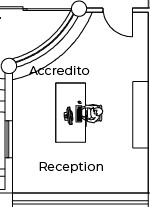
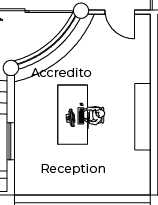
committo tuttecose

Changed region(s): [[0.0, 0.0, 1.0, 1.0], [0.24, 0.761, 0.6933, 0.8488], [0.0, 0.0878, 0.0267, 0.1171]]

diff --git a/WareHouseAngular/src/app/WorkStation/office/ground-floor/uff2/uff2.component.html b/WareHouseAngular/src/app/WorkStation/office/ground-floor/uff2/uff2.component.html
@@ -1,41 +1,40 @@
 <h2>Image Maps</h2>
 <p>Click on the cup of coffee to go to a new page and read more about the topic:</p>
 
-<img src="../../../../../assets/img/Ufficio_tecnico_2_PT.jpg" alt="Workplace" usemap="#workmap" >
+<img src="../../../../../assets/img/Ufficio_tecnico_2_PT.png" alt="Workplace" usemap="#workmap" >
 
 <map name="workmap">
 
-  tavolo top
-  <area alt="1" title="1" href="/Workstation" coords="145,228 146,199 166,198 166,182 181,182 182,199 197,198 197,229 " shape="polygon" (click)="setWorkstationInSession('uff_2_gf', 13)">
-  <area alt="2" title="2" href="/Workstation" coords="197,229 198,200 217,201 217,183 234,184 235,201 249,201 248,230 " shape="polygon" (click)="setWorkstationInSession('uff_2_gf', 13)">
-  <area alt="3" title="3" href="/Workstation" coords="249,228 249,200 268,201 269,183 285,184 286,201 300,201 300,230 " shape="polygon" (click)="setWorkstationInSession('uff_2_gf', 13)">
-  <area alt="4" title="4" href="/Workstation" coords="300,228 301,199 320,200 321,182 337,183 338,200 352,200 352,229 " shape="polygon" (click)="setWorkstationInSession('uff_2_gf', 13)">
-  <area alt="5" title="5" href="/Workstation" coords="353,229 353,199 373,200 373,182 390,183 391,200 405,200 404,229 " shape="polygon" (click)="setWorkstationInSession('uff_2_gf', 13)">
-  <area alt="6" title="6" href="/Workstation" coords="145,229 197,230 197,260 183,260 181,276 167,276 166,260 147,260 " shape="polygon" (click)="setWorkstationInSession('uff_2_gf', 13)">
-  <area alt="7" title="7" href="/Workstation" coords="198,229 248,230 248,260 234,260 232,276 218,276 217,260 198,260 " shape="polygon" (click)="setWorkstationInSession('uff_2_gf', 13)">
-  <area alt="8" title="8" href="/Workstation" coords="250,228 300,229 300,259 285,259 284,275 270,275 268,259 250,259 " shape="polygon" (click)="setWorkstationInSession('uff_2_gf', 13)">
-  <area alt="9" title="9" href="/Workstation" coords="301,229 351,229 351,259 337,259 335,276 321,276 320,259 301,259 " shape="polygon" (click)="setWorkstationInSession('uff_2_gf', 13)">
-  <area alt="10" title="10" href="/Workstation" coords="353,229 403,230 403,260 388,260 387,276 373,276 371,260 353,260 " shape="polygon" (click)="setWorkstationInSession('uff_2_gf', 13)">
 
-tavolo centrale da 4
-  <area alt="11" title="11" href="/Workstation" coords="200,321 228,322 229,372 200,372 200,358 183,358 183,341 199,341 " shape="polygon" (click)="setWorkstationInSession('uff_2_gf', 13)">
-  <area alt="12" title="12" href="/Workstation" coords="229,321 258,321 259,341 275,342 275,357 259,357 259,372 229,373 " shape="polygon" (click)="setWorkstationInSession('uff_2_gf', 13)">
-  <area alt="13" title="13" href="/Workstation" coords="200,373 228,373 229,424 200,424 200,410 183,410 183,393 199,393 " shape="polygon" (click)="setWorkstationInSession('uff_2_gf', 13)">
-  <area alt="14" title="14" href="/Workstation" coords="230,374 258,374 259,394 275,395 276,410 259,410 260,424 230,426 " shape="polygon" (click)="setWorkstationInSession('uff_2_gf', 13)">
+  <area alt="1" title="1" href="/Workstation" coords="63,77 83,77 83,61 100,60 101,77 114,76 114,107 64,106 " shape="polygon" (click)="setWorkstationInSession('uff_2_gf', 1)">
+  <area alt="2" title="2" href="/Workstation" coords="166,106 166,77 153,76 151,61 136,61 135,76 115,76 115,106 " shape="polygon" (click)="setWorkstationInSession('uff_2_gf', 2)">
+  <area alt="3" title="3" href="/Workstation" coords="218,106 218,78 204,77 203,62 188,61 187,76 167,77 167,107 " shape="polygon" (click)="setWorkstationInSession('uff_2_gf', 3)">
+  <area alt="4" title="4" href="/Workstation" coords="270,106 270,77 256,76 255,61 240,61 238,76 219,76 219,106 " shape="polygon" (click)="setWorkstationInSession('uff_2_gf', 4)">
+  <area alt="5" title="5" href="/Workstation" coords="321,106 321,77 307,76 306,61 291,61 289,76 270,76 270,106 " shape="polygon" (click)="setWorkstationInSession('uff_2_gf', 5)">
+  <area alt="6" title="6" href="/Workstation" coords="63,106 114,107 115,136 99,136 99,153 85,153 84,136 63,136 " shape="polygon" (click)="setWorkstationInSession('uff_2_gf', 6)">
+  <area alt="7" title="7" href="/Workstation" coords="115,105 166,106 167,135 151,135 150,152 137,152 136,135 115,135 " shape="polygon" (click)="setWorkstationInSession('uff_2_gf', 7)">
+  <area alt="8" title="8" href="/Workstation" coords="167,106 218,106 219,135 203,135 202,153 189,153 188,135 167,135 " shape="polygon" (click)="setWorkstationInSession('uff_2_gf', 8)">  
+  <area alt="9" title="9" href="/Workstation" coords="218,106 269,107 270,136 254,136 253,153 240,153 239,136 218,136 " shape="polygon" (click)="setWorkstationInSession('uff_2_gf', 9)">
+  <area alt="10" title="10" href="/Workstation" coords="270,106 321,106 321,135 306,135 305,153 291,153 291,135 270,135 " shape="polygon" (click)="setWorkstationInSession('uff_2_gf', 10)">
 
-tavolo bottom
-  <area alt="15" title="15" href="/Workstation" coords="146,519 146,489 165,490 166,472 182,473 183,490 197,490 197,519 " shape="polygon" (click)="setWorkstationInSession('uff_2_gf', 13)">
-  <area alt="2" title="16" href="/Workstation" coords="197,518 197,488 216,489 217,471 233,472 234,489 248,489 247,518 " shape="polygon" (click)="setWorkstationInSession('uff_2_gf', 13)">
-  <area alt="2" title="17" href="/Workstation" coords="249,518 249,488 268,488 269,471 285,471 286,488 300,488 300,517 " shape="polygon" (click)="setWorkstationInSession('uff_2_gf', 13)">
-  <area alt="2" title="18" href="/Workstation" coords="301,519 301,489 320,490 321,472 337,473 338,490 352,490 352,519 " shape="polygon" (click)="setWorkstationInSession('uff_2_gf', 13)">
-  <area alt="2" title="19" href="/Workstation" coords="353,519 352,489 371,490 372,472 388,473 389,490 403,490 403,519 " shape="polygon" (click)="setWorkstationInSession('uff_2_gf', 13)">
-  <area alt="3" title="20" href="/Workstation" coords="146,518 196,519 196,549 182,549 181,565 167,565 165,549 146,549 " shape="polygon" (click)="setWorkstationInSession('uff_2_gf', 13)">
-  <area alt="3" title="21" href="/Workstation" coords="198,518 248,518 248,548 234,548 232,565 218,565 217,548 198,548 " shape="polygon" (click)="setWorkstationInSession('uff_2_gf', 13)">
-  <area alt="3" title="22" href="/Workstation" coords="250,519 300,520 300,549 285,549 284,566 270,566 268,549 250,549 " shape="polygon" (click)="setWorkstationInSession('uff_2_gf', 13)">
-  <area alt="3" title="23" href="/Workstation" coords="301,519 351,520 351,549 337,549 335,566 321,566 320,549 301,549 " shape="polygon" (click)="setWorkstationInSession('uff_2_gf', 13)">
-  <area alt="3" title="24" href="/Workstation" coords="353,518 403,519 403,549 389,549 388,565 374,565 372,549 353,549 " shape="polygon" (click)="setWorkstationInSession('uff_2_gf', 13)">
+  <area alt="11" title="11" href="/Workstation" coords="118,197 147,197 147,251 117,250 117,235 103,235 102,220 117,219 " shape="polygon" (click)="setWorkstationInSession('uff_2_gf', 11)">
+  <area alt="12" title="12" href="/Workstation" coords="147,198 176,198 177,218 193,219 193,234 177,234 177,250 146,249 " shape="polygon" (click)="setWorkstationInSession('uff_2_gf', 12)">
+  <area alt="13" title="13" href="/Workstation" coords="117,249 146,249 147,302 117,301 116,287 103,287 102,271 117,270 " shape="polygon" (click)="setWorkstationInSession('uff_2_gf', 13)">
+  <area alt="14" title="14" href="/Workstation" coords="148,250 176,250 177,270 194,271 194,288 177,288 177,301 148,301 " shape="polygon" (click)="setWorkstationInSession('uff_2_gf', 14)">
 
-direzione
-<area alt="" title="1" href="/Workstation" coords="503,519 569,519 570,549 546,548 545,566 531,566 529,548 502,550 " shape="polygon" (click)="setWorkstationInSession('dir_uff_2_gf', 1)">
+  <area alt="15" title="15" href="/Workstation" coords="63,367 83,366 84,351 100,350 100,366 115,367 115,396 63,396 " shape="polygon" (click)="setWorkstationInSession('uff_2_gf', 15)">
+  <area alt="" title="16" href="/Workstation" coords="116,366 136,366 137,350 152,350 153,366 167,366 168,396 115,395 " shape="polygon" (click)="setWorkstationInSession('uff_2_gf', 16)">
+  <area alt="" title="17" href="/Workstation" coords="168,366 187,366 188,350 204,350 205,366 219,366 219,396 167,395 " shape="polygon" (click)="setWorkstationInSession('uff_2_gf', 17)">
+  <area alt="" title="18" href="/Workstation" coords="219,366 238,366 239,350 255,350 255,366 270,366 270,396 218,395 " shape="polygon" (click)="setWorkstationInSession('uff_2_gf', 18)">
+  <area alt="" title="19" href="/Workstation" coords="270,366 290,366 291,350 307,350 307,366 322,366 322,396 270,395 " shape="polygon" (click)="setWorkstationInSession('uff_2_gf', 19)">
+  <area alt="" title="20" href="/Workstation" coords="64,396 115,395 115,426 100,426 100,442 85,442 84,426 64,425 " shape="polygon" (click)="setWorkstationInSession('uff_2_gf', 20)">
+  <area alt="" title="21" href="/Workstation" coords="114,395 166,395 166,426 151,426 151,442 136,442 136,426 115,425 " shape="polygon" (click)="setWorkstationInSession('uff_2_gf', 21)">
+  <area alt="" title="22" href="/Workstation" coords="167,396 218,395 218,426 204,426 203,442 188,442 188,426 168,425 " shape="polygon" (click)="setWorkstationInSession('uff_2_gf', 22)">
+  <area alt="" title="23" href="/Workstation" coords="219,396 270,395 270,426 255,426 255,442 240,442 240,426 219,425 " shape="polygon" (click)="setWorkstationInSession('uff_2_gf', 23)">
+  <area alt="" title="24" href="/Workstation" coords="270,396 321,396 321,427 307,427 306,442 291,443 291,427 271,426 " shape="polygon" (click)="setWorkstationInSession('uff_2_gf', 24)">
+
+  <area alt="" title="25" href="Workstation" coords="420,395 486,395 486,425 463,425 463,440 448,439 446,426 420,424 " shape="polygon" (click)="setWorkstationInSession('dir_uff_2_gf', 1)">
+
+  -----------
 
 </map>

diff --git a/WareHouseAngular/src/app/WorkStation/office/ground-floor/reception/reception.component.html b/WareHouseAngular/src/app/WorkStation/office/ground-floor/reception/reception.component.html
@@ -4,5 +4,5 @@
 
 <img src="../../../../../assets/img/Reception.png" usemap="#image_map">
 <map name="image_map">
-  <area alt="" title="1" href="/Workstation" coords="55,83 85,83 85,106 102,106 102,122 86,122 86,144 55,143 " shape="polygon" (click)="setWorkstationInSession('reception', 1)">>
+  <area alt="" title="1" href="/Workstation" coords="58,85 87,85 88,108 103,108 103,124 88,123 88,144 58,144 " shape="polygon" (click)="setWorkstationInSession('reception', 1)">>
 </map>
